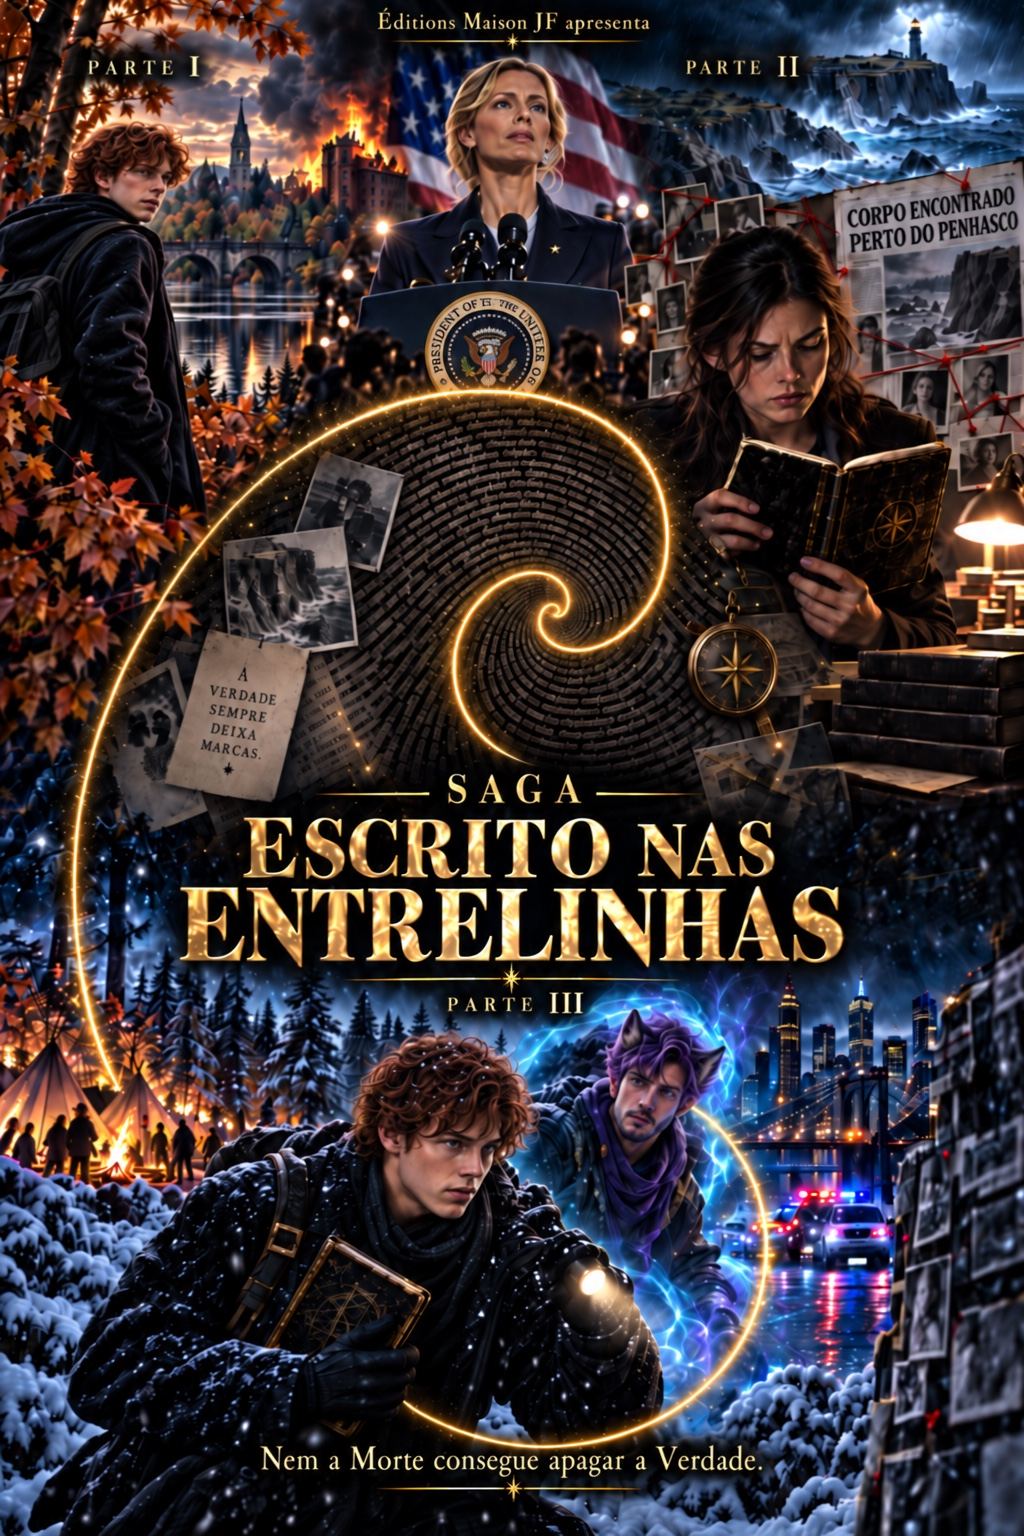
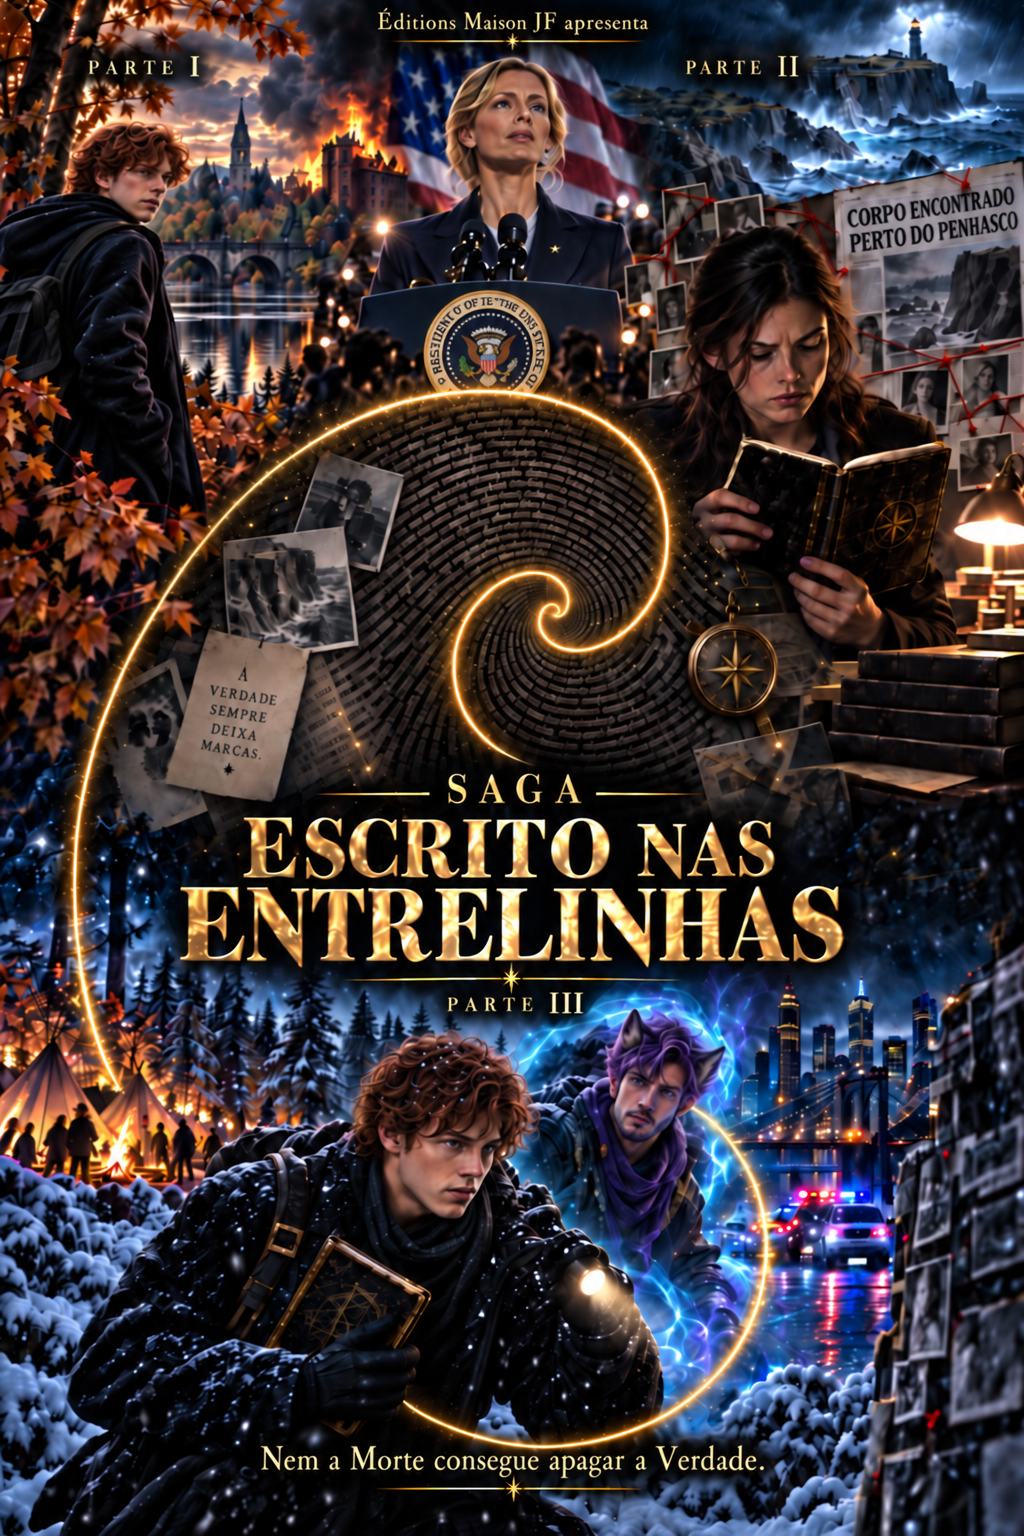
Replace corrected saga posters and refresh cache

diff --git a/ebooks/index.html b/ebooks/index.html
@@ -42,8 +42,8 @@
   <div class="poster-grid">
     <figure class="poster-card"><a class="poster-open" href="../images/ebooks/posters/virgulas-do-destino.webp?v=20260922-lossless-final" aria-haspopup="dialog" aria-label="Ampliar Vírgulas do Destino"><img src="../images/ebooks/posters/virgulas-do-destino.webp?v=20260922-lossless-final" width="1024" height="1536" alt="Poster Vírgulas do Destino" loading="lazy" decoding="async"></a><figcaption>Vírgulas do Destino</figcaption></figure>
     <figure class="poster-card"><a class="poster-open" href="../images/ebooks/posters/sombras-da-luz.webp?v=20260922-lossless-final" aria-haspopup="dialog" aria-label="Ampliar Sombras da Luz"><img src="../images/ebooks/posters/sombras-da-luz.webp?v=20260922-lossless-final" width="1024" height="1536" alt="Poster Sombras da Luz" loading="lazy" decoding="async"></a><figcaption>Sombras da Luz</figcaption></figure>
-    <figure class="poster-card"><a class="poster-open" href="../images/ebooks/posters/escrito-nas-entrelinhas.webp?v=20260922-lossless-final" aria-haspopup="dialog" aria-label="Ampliar Escrito nas Entrelinhas"><img src="../images/ebooks/posters/escrito-nas-entrelinhas.webp?v=20260922-lossless-final" width="1024" height="1536" alt="Poster Escrito nas Entrelinhas" loading="lazy" decoding="async"></a><figcaption>Escrito nas Entrelinhas</figcaption></figure>
-    <figure class="poster-card"><a class="poster-open" href="../images/ebooks/posters/sombras-da-alma.webp?v=20260922-lossless-final" aria-haspopup="dialog" aria-label="Ampliar Sombras da Alma"><img src="../images/ebooks/posters/sombras-da-alma.webp?v=20260922-lossless-final" width="1024" height="1536" alt="Poster Sombras da Alma" loading="lazy" decoding="async"></a><figcaption>Sombras da Alma</figcaption></figure>
+    <figure class="poster-card"><a class="poster-open" href="../images/ebooks/posters/escrito-nas-entrelinhas.webp?v=20260922-corrected-posters" aria-haspopup="dialog" aria-label="Ampliar Escrito nas Entrelinhas"><img src="../images/ebooks/posters/escrito-nas-entrelinhas.webp?v=20260922-corrected-posters" width="1024" height="1536" alt="Poster Escrito nas Entrelinhas" loading="lazy" decoding="async"></a><figcaption>Escrito nas Entrelinhas</figcaption></figure>
+    <figure class="poster-card"><a class="poster-open" href="../images/ebooks/posters/sombras-da-alma.webp?v=20260922-corrected-posters" aria-haspopup="dialog" aria-label="Ampliar Sombras da Alma"><img src="../images/ebooks/posters/sombras-da-alma.webp?v=20260922-corrected-posters" width="1024" height="1536" alt="Poster Sombras da Alma" loading="lazy" decoding="async"></a><figcaption>Sombras da Alma</figcaption></figure>
   </div>
 </section>
 </main>
